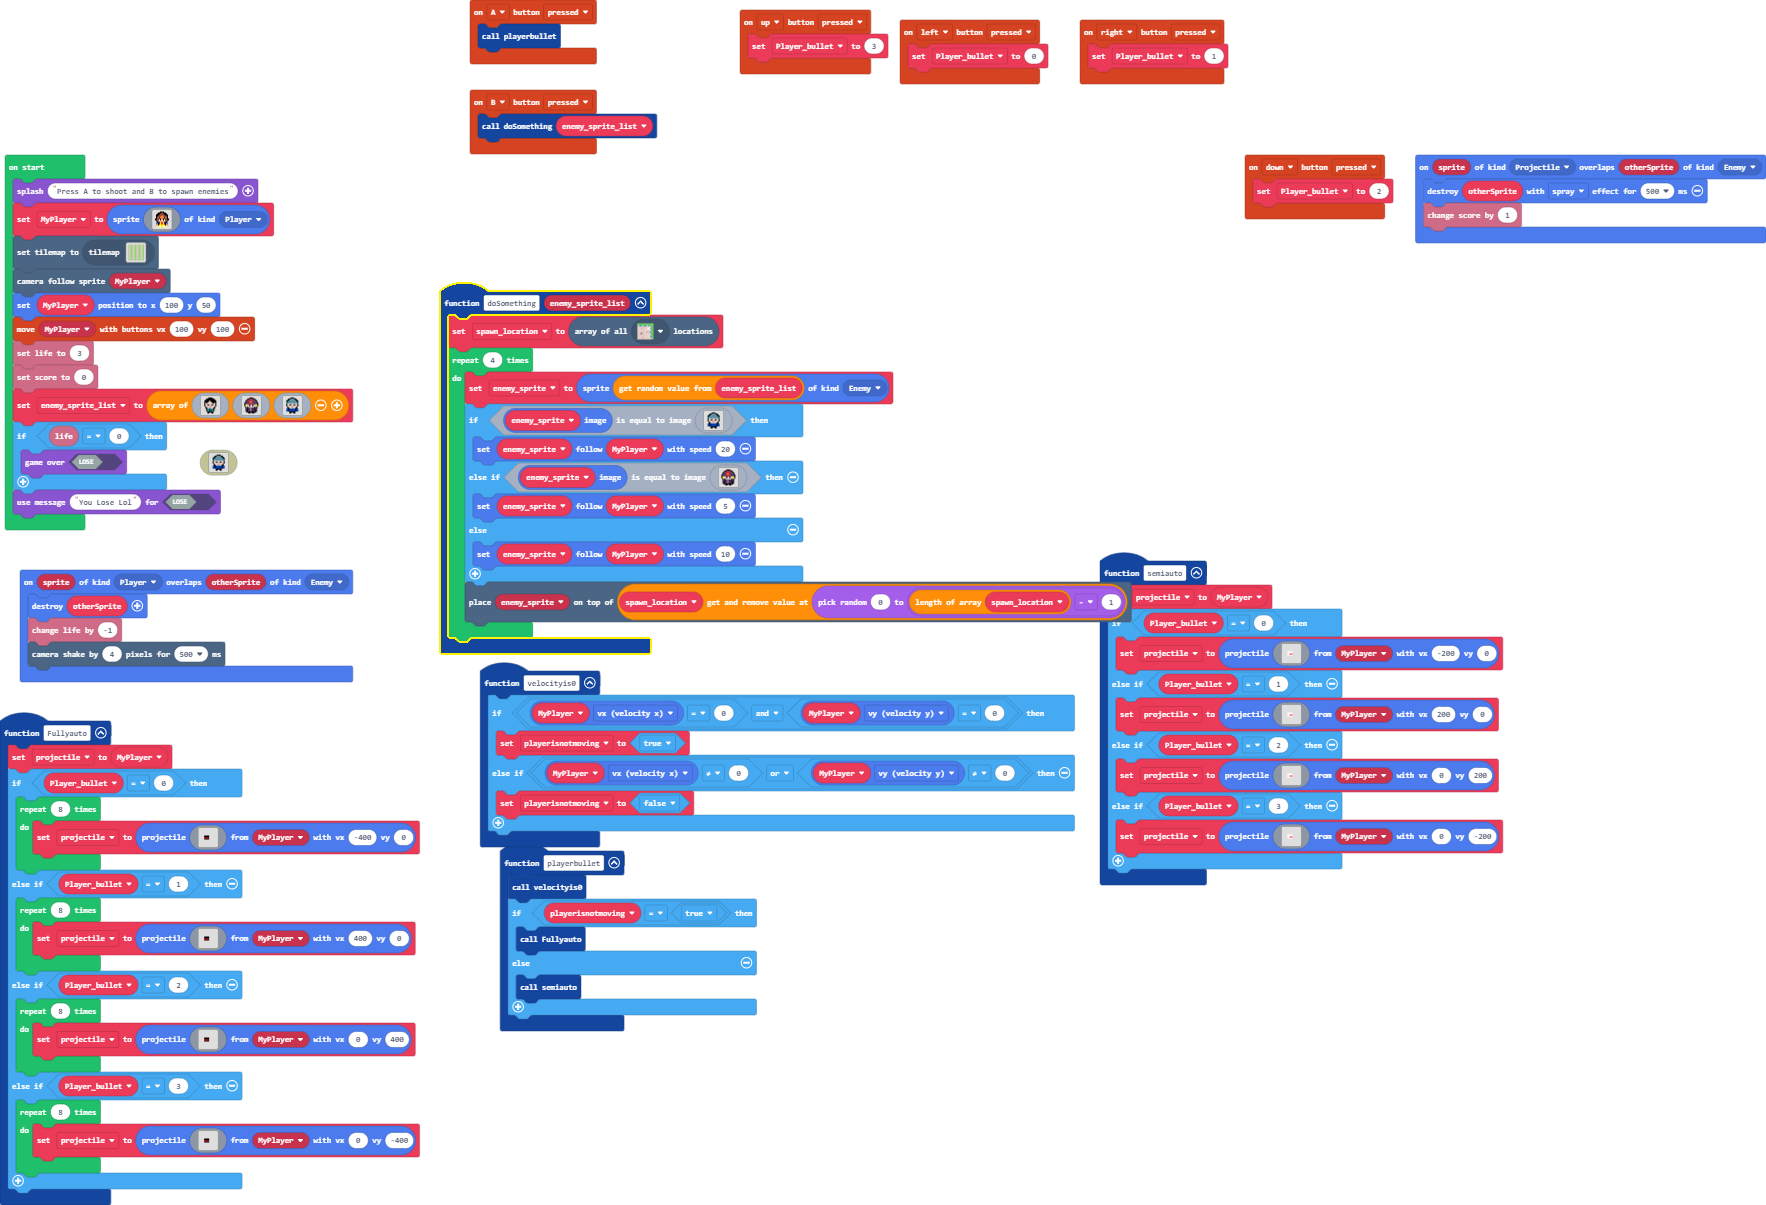
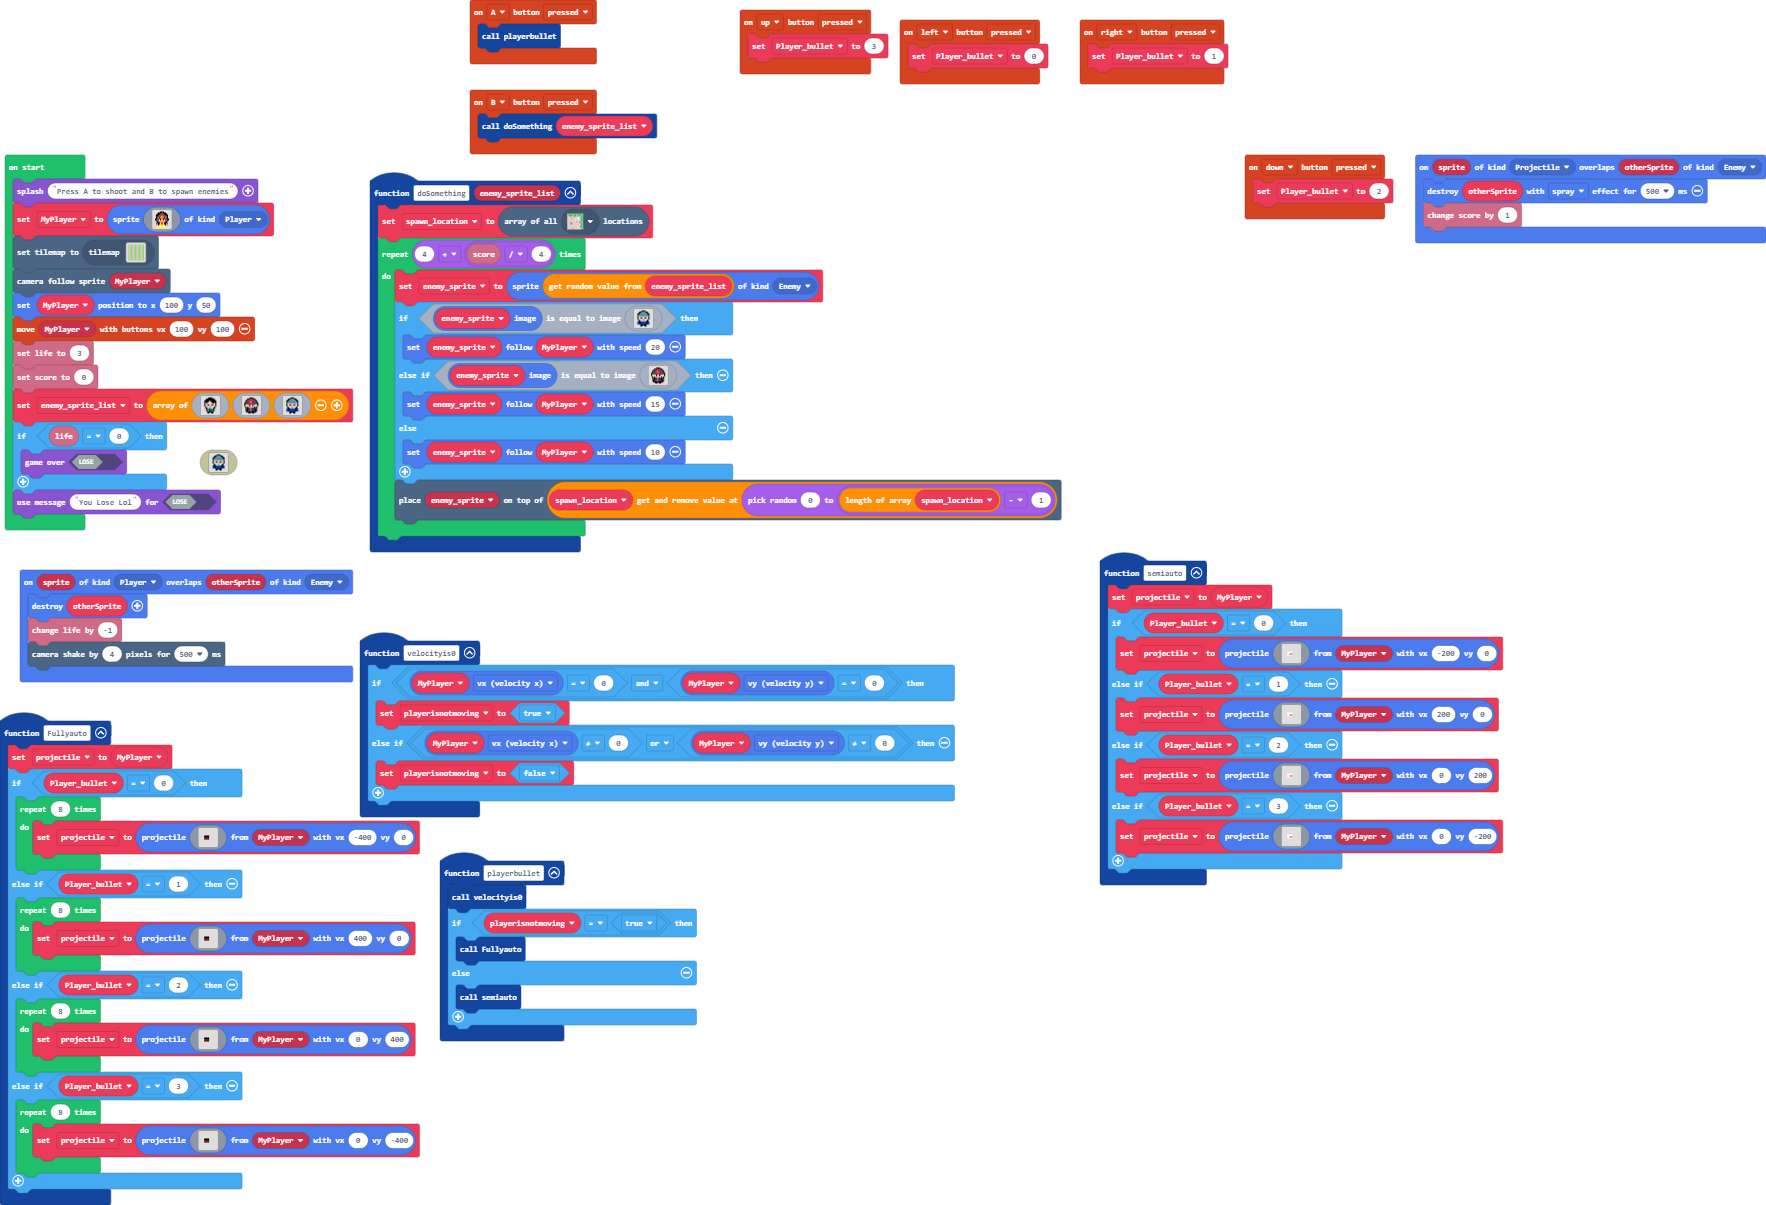
Update pxt.json, main.blocks, main.ts

Changed region(s): [[0.1869, 0.1228, 0.654, 0.8905]]

diff --git a/main.ts b/main.ts
@@ -102,7 +102,7 @@ controller.right.onEvent(ControllerButtonEvent.Pressed, function () {
 })
 function doSomething (enemy_sprite_list: Image[]) {
     spawn_location = tiles.getTilesByType(sprites.castle.tilePath3)
-    for (let index = 0; index < 4; index++) {
+    for (let index = 0; index < 4 + info.score() / 4; index++) {
         enemy_sprite = sprites.create(enemy_sprite_list._pickRandom(), SpriteKind.Enemy)
         if (enemy_sprite.image.equals(img`
             . . . . f f f f . . . . 
@@ -141,7 +141,7 @@ function doSomething (enemy_sprite_list: Image[]) {
             . . f f f f f f f f f f . . 
             . . . . f f b b f f . . . . 
             `)) {
-            enemy_sprite.follow(MyPlayer, 5)
+            enemy_sprite.follow(MyPlayer, 15)
         } else {
             enemy_sprite.follow(MyPlayer, 10)
         }
